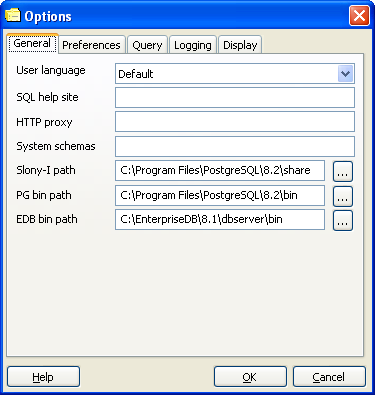
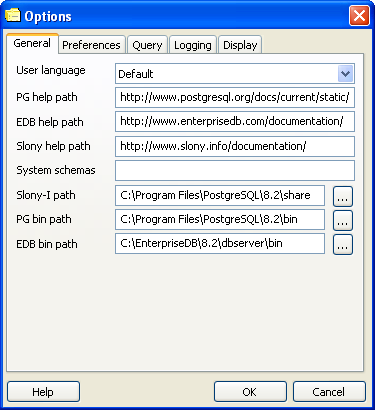
Update the docs for the new help location options.
git-svn-id: svn://svn.pgadmin.org/trunk@6303 a7884b65-44f6-0310-8a51-81a127f17b15

Changed region(s): [[0.0, 0.0, 0.9973, 0.638], [0.0, 0.881, 0.9973, 1.0]]

diff --git a/docs/en_US/options-tab1.html b/docs/en_US/options-tab1.html
@@ -14,26 +14,32 @@
 
 <p>
 <ul>
-   <li><b>Language</b> - When you first started pgAdmin, it will have allowed
-   you to select the language it should display. This setting may be changed 
-   here.<br>&nbsp;</li>
+   <li><b>User language</b> - This option allows you to change the language
+   used in the pgAdmin user interface.<br>&nbsp;</li>
   
-   <li><b>SQL help site</b> - SQL help may be accessed by pressing F1
-   within pgAdmin, which will display the most appropriate PostgreSQL
-   helpfile for the current object selection or open dialogue. This
-   setting allows you to modify the location under which those files
-   may be found. You may specify a local directory path, or a URL if
-   you wish to use documents on a website. pgAdmin expects to find
-   files at this location from the standard PostgreSQL documentation
-   set. By default, this setting is left blank in which case pgAdmin
-   will use the help files in the included HTML Help system. If you
-   set a value here, pgAdmin will look for normal HTML files at the
-   location specified.<br>&nbsp;</li> 
+   <li><b>PG help path</b> - This option is used to specify the path
+   to the PostgreSQL help files. This may be a URL or directory containing
+   the HTML format help files, or the path to a Compiled HTML Help (.chm) file (on
+   Windows), an HTML Help project (.hhp) file, or a Zip archive containing the HTML
+   files and the HTML Help project file. The PostgreSQL Help is used when selected
+   from the Help menu, or when working with many database objects on PostgreSQL.
+   servers.<br>&nbsp;</li>
 
-   <li><b>HTTP proxy</b>- Use a proxy to access the web. This must be
-   provided in the form host:port or left blank if not proxy is
-   used.<br>&nbsp;</li> 
-   
+   <li><b>EDB help path</b> - This option is used to specify the path
+   to the EnterpriseDB help files. This may be a URL or directory containing
+   the HTML format help files, or the path to a Compiled HTML Help (.chm) file (on
+   Windows), an HTML Help project (.hhp) file, or a Zip archive containing the HTML
+   files and the HTML Help project file. The EnterpriseDB Help is used when selected
+   from the Help menu, or when working with many database objects on EnterpriseDB
+   servers.<br>&nbsp;</li>
+
+   <li><b>Slony help path</b> - This option is used to specify the path
+   to the Slony help files. This may be a URL or directory containing
+   the HTML format help files, or the path to a Compiled HTML Help (.chm) file (on
+   Windows), an HTML Help project (.hhp) file, or a Zip archive containing the HTML
+   files and the HTML Help project file. The Slony Help is used when selected
+   from the Help menu.<br>&nbsp;</li>
+
    <li><b>System schemas</b>- You can suppress the display of additional schemas,
    by declaring them a system schema. This field takes a list of comma separated strings.<br>&nbsp;</li> 
    
